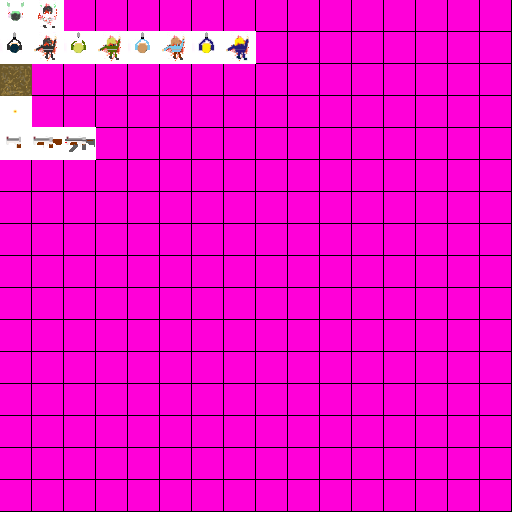
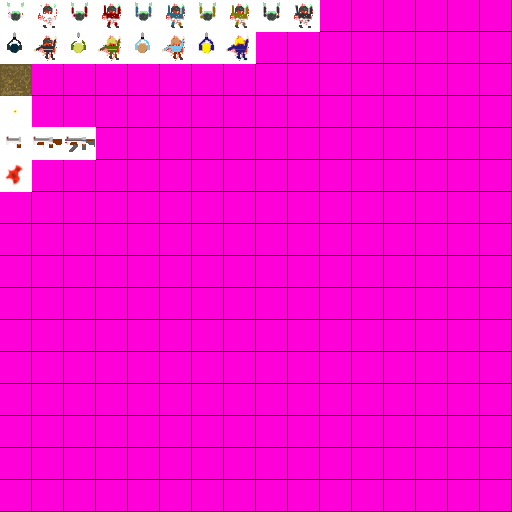
Randomized zombie art

Changed region(s): [[0.125, 0.0, 0.625, 0.0625], [0.0, 0.3125, 0.0625, 0.375]]

diff --git a/core/src/net/lostsocket/ld42/entities/BloodStain.java b/core/src/net/lostsocket/ld42/entities/BloodStain.java
@@ -1,0 +1,58 @@
+package net.lostsocket.ld42.entities;
+
+import com.badlogic.gdx.math.Vector2;
+
+import net.lostsocket.ld42.RunningOutOfSpace;
+import net.lostsocket.ld42.components.SpriteComponent;
+import net.lostsocket.ld42.components.TimedDestroyComponent;
+import net.lostsocket.ld42.maths.Maths;
+
+public class BloodStain extends Entity {
+	
+	private float targetScaleX;
+	private float targetScaleY;
+	
+	private float moveTime;
+	private float initialMoveTime;
+	
+	private float moveSpeed;
+	private Vector2 forward;
+	
+	public BloodStain(Bullet bullet) {
+		super(0);
+		addComponent(new TimedDestroyComponent(Maths.getRandomFloat(10, 25)));
+		addComponent(new SpriteComponent(RunningOutOfSpace.img, 0, 5));
+		
+		transform.setRotation(Maths.getRandomFloat(0, 360));
+		
+		transform.forward = new Vector2(bullet.transform.forward);
+		transform.scale.x = 0f;
+		transform.scale.y = 0f;
+		targetScaleX = Maths.getRandomFloat(0.2f, 1);
+		targetScaleY = Maths.getRandomFloat(0.2f, 1);
+		moveTime = (bullet.pushBack / 100f) + 0.03f;
+		initialMoveTime = moveTime;
+		transform.position = new Vector2(bullet.transform.position);
+		moveSpeed = bullet.SPEED / 4f;
+	}
+
+	@Override
+	public void customUpdate(float delta) {
+		
+		if(moveTime <= 0)
+			return;
+		
+		moveTime -= delta;
+		
+		float t = 1 - (moveTime / initialMoveTime);
+		transform.moveForward(moveSpeed * delta);
+		transform.scale.x = targetScaleX * t;
+		transform.scale.y = targetScaleY * t;
+	}
+
+	@Override
+	public void onCollision(Entity other) {
+	
+	}
+
+}

diff --git a/core/src/net/lostsocket/ld42/GameManager.java b/core/src/net/lostsocket/ld42/GameManager.java
@@ -76,7 +76,7 @@ public class GameManager extends Entity {
 		wave = 0;
 		nZombiesAlive = 0;
 		totalNumKills = 0;
-		currentScene.addEntity(new Player());
+		currentScene.addEntity(new Player(), false);
 		currentState = GameState.PLAYING;
 		changeUI(new InGameUI());
 		remainingTimeWarmingUp = WARMUP_TIME;
@@ -92,7 +92,7 @@ public class GameManager extends Entity {
 		}
 		
 		NPC npc = new NPC();
-		currentScene.addEntity(npc);
+		currentScene.addEntity(npc, false);
 		switch (npc.choosenBehaviour) {
 		case NPC.PROTECTIVE:
 			return "You found a Survivor, it looks like a very protective person";
@@ -138,9 +138,13 @@ public class GameManager extends Entity {
 	private void spawnZombies(int amount) {
 		for(int i = 0; i < amount; ++i) {
 			Zombie z = new Zombie();
+			if(wave > 5) {
+				z.maxHealth += wave * 10;
+				z.health += wave * 10;
+			}
 			spawnedZombies.add(z);
 			aliveZombies.add(z);
-			currentScene.addEntity(z);
+			currentScene.addEntity(z, false);
 		}
 	}
 	

diff --git a/core/src/net/lostsocket/ld42/scenes/AbstractScene.java b/core/src/net/lostsocket/ld42/scenes/AbstractScene.java
@@ -10,6 +10,7 @@ public abstract class AbstractScene {
 	
 	public ArrayList<Entity> entities = new ArrayList<Entity>();
 	public ArrayList<Entity> entitiesToAdd = new ArrayList<Entity>();
+	public ArrayList<Entity> entitiesToPrepent = new ArrayList<Entity>();
 	
 	public abstract void load();
 	protected abstract void customDispose();
@@ -31,6 +32,10 @@ public abstract class AbstractScene {
 		
 		for(Entity toAdd : entitiesToAdd) {
 			entities.add(toAdd);
+		}
+		
+		for(Entity toAdd : entitiesToPrepent) {
+			entities.add(2, toAdd);
 		}
 		
 		entitiesToAdd.clear();
@@ -62,9 +67,13 @@ public abstract class AbstractScene {
 		customRender(batch);
 	}
 	
-	public void addEntity(Entity newEntity) {
+	public void addEntity(Entity newEntity, boolean atBeginning) {
 		newEntity.currentScene = this;
-		entitiesToAdd.add(newEntity);
+		if(atBeginning) {
+			entitiesToPrepent.add(newEntity);
+		}else {
+			entitiesToAdd.add(newEntity);
+		}
 	}
 	
 	public void dispose() {

diff --git a/core/src/net/lostsocket/ld42/entities/Zombie.java b/core/src/net/lostsocket/ld42/entities/Zombie.java
@@ -32,13 +32,16 @@ public class Zombie extends Mortal{
 		transform.position.x = Player.instance.transform.position.x + (Maths.getRandomFloat(0, 1) > 0.5 ?  Maths.getRandomFloat(-700, -400) : Maths.getRandomFloat(400, 700));
 		transform.position.y = Player.instance.transform.position.y + (Maths.getRandomFloat(0, 1) > 0.5 ?  Maths.getRandomFloat(-700, -400) : Maths.getRandomFloat(400, 700));
 		
-		aliveSprite = new SpriteComponent(RunningOutOfSpace.img, 0, 0);
+		int randomArt = Maths.getRandomBetween(0, 5);
+		aliveSprite = new SpriteComponent(RunningOutOfSpace.img, randomArt * 2, 0);
+		deadSprite = new SpriteComponent(RunningOutOfSpace.img, randomArt * 2 + 1, 0);
+		
 		addComponent(aliveSprite);
+		
 		
 		growlSoundManager = new RandomSound(growl, 5, 20, false);
 		addComponent(growlSoundManager);
 		
-		deadSprite = new SpriteComponent(RunningOutOfSpace.img, 1, 0);
 	}
 	
 	private void loadSounds() {

diff --git a/core/src/net/lostsocket/ld42/components/MachineGun.java b/core/src/net/lostsocket/ld42/components/MachineGun.java
@@ -15,7 +15,7 @@ public class MachineGun extends Weapon{
 	}
 	
 	public void shoot() {
-		owner.currentScene.addEntity(new Bullet(owner, owner.transform.forward.x, owner.transform.forward.y, damage, pushBack));
+		owner.currentScene.addEntity(new Bullet(owner, owner.transform.forward.x, owner.transform.forward.y, damage, pushBack), false);
 		isMouseDown = false;
 	}
 
@@ -26,22 +26,25 @@ public class MachineGun extends Weapon{
 			damage += 5;
 			shootRate -= 0.005f;
 			magSize += 10;
+			pushBack = 1;
 			break; 
 		case 3:
 			damage += 5;
 			shootRate -= 0.005f;
 			magSize += 10;
+			pushBack = 2;
 			break;
 		case 4:
 			damage += 5;
 			shootRate -= 0.005f;
 			magSize += 10;
+			pushBack = 5;
 			break; 
 		case 5:
 			damage += 5;
 			shootRate -= 0.005f;
 			magSize += 10;
-			pushBack = 2;
+			pushBack = 10;
 			break;
 		}
 

diff --git a/core/src/net/lostsocket/ld42/entities/Bullet.java b/core/src/net/lostsocket/ld42/entities/Bullet.java
@@ -8,7 +8,7 @@ import net.lostsocket.ld42.components.TimedDestroyComponent;
 
 public class Bullet extends Entity {
 	
-	private final float SPEED = 1000f;
+	public final float SPEED = 1000f;
 	public Entity owner;
 	public float damage;
 	public float pushBack;
@@ -31,10 +31,14 @@ public class Bullet extends Entity {
 
 	@Override
 	public void onCollision(Entity other) {
+		if(isDestroyed)
+			return; 
+		
 		if(other instanceof Zombie) {
 			Zombie z = (Zombie)other;
 			if(z.isAlive) {
 				isDestroyed = true;
+				currentScene.addEntity(new BloodStain(this), true);
 			}
 		}
 	}

diff --git a/core/src/net/lostsocket/ld42/components/Shotgun.java b/core/src/net/lostsocket/ld42/components/Shotgun.java
@@ -17,7 +17,7 @@ public class Shotgun extends Weapon{
 	
 	public void shoot(){
 		for(int i = 0; i < 5; i++)
-			owner.currentScene.addEntity(new Bullet(owner, owner.transform.forward.x + Maths.getRandomFloat(-0.1f, 0.1f), owner.transform.forward.y + Maths.getRandomFloat(-0.1f, 0.1f), damage, pushBack));
+			owner.currentScene.addEntity(new Bullet(owner, owner.transform.forward.x + Maths.getRandomFloat(-0.1f, 0.1f), owner.transform.forward.y + Maths.getRandomFloat(-0.1f, 0.1f), damage, pushBack), false);
 	}
 
 	@Override

diff --git a/core/src/net/lostsocket/ld42/ui/InGameUI.java b/core/src/net/lostsocket/ld42/ui/InGameUI.java
@@ -62,9 +62,9 @@ public class InGameUI extends UI{
 	}
 	
 	private void drawHealthBar(SpriteBatch batch) {
-		batch.draw(healthBarBackgroud, 75, 12);
+		batch.draw(healthBarBackgroud, 85, 12);
 		float percentage = Player.instance.health / Player.instance.maxHealth;
-		batch.draw(healthBarForeground, 76, 13, percentage * 200, 13);
+		batch.draw(healthBarForeground, 86, 13, percentage * 200, 13);
 	}
 
 	@Override

diff --git a/core/src/net/lostsocket/ld42/components/Handgun.java b/core/src/net/lostsocket/ld42/components/Handgun.java
@@ -15,7 +15,7 @@ public class Handgun extends Weapon{
 	}
 
 	public void shoot(){
-		owner.currentScene.addEntity(new Bullet(owner, owner.transform.forward.x, owner.transform.forward.y, damage, pushBack));
+		owner.currentScene.addEntity(new Bullet(owner, owner.transform.forward.x, owner.transform.forward.y, damage, pushBack), false);
 	}
 
 	@Override

diff --git a/core/src/net/lostsocket/ld42/scenes/GameScene.java b/core/src/net/lostsocket/ld42/scenes/GameScene.java
@@ -19,8 +19,8 @@ public class GameScene extends AbstractScene{
 	@Override
 	public void load() {
 		System.out.println("Game Scene Loaded!");
-		addEntity(new GameManager());
-		addEntity(new MapBackground(bgTexture));
+		addEntity(new GameManager(), false);
+		addEntity(new MapBackground(bgTexture), false);
 	}
 
 	@Override

diff --git a/core/src/net/lostsocket/ld42/entities/Player.java b/core/src/net/lostsocket/ld42/entities/Player.java
@@ -34,8 +34,8 @@ public class Player extends Mortal{
 		super(100, 7);
 		instance = this;
 		
-		health = 100000;
-		maxHealth = 100000;
+		health = 100;
+		maxHealth = 100;
 		
 		aliveSprite = new SpriteComponent(RunningOutOfSpace.img, 0, 1);
 		addComponent(aliveSprite);
